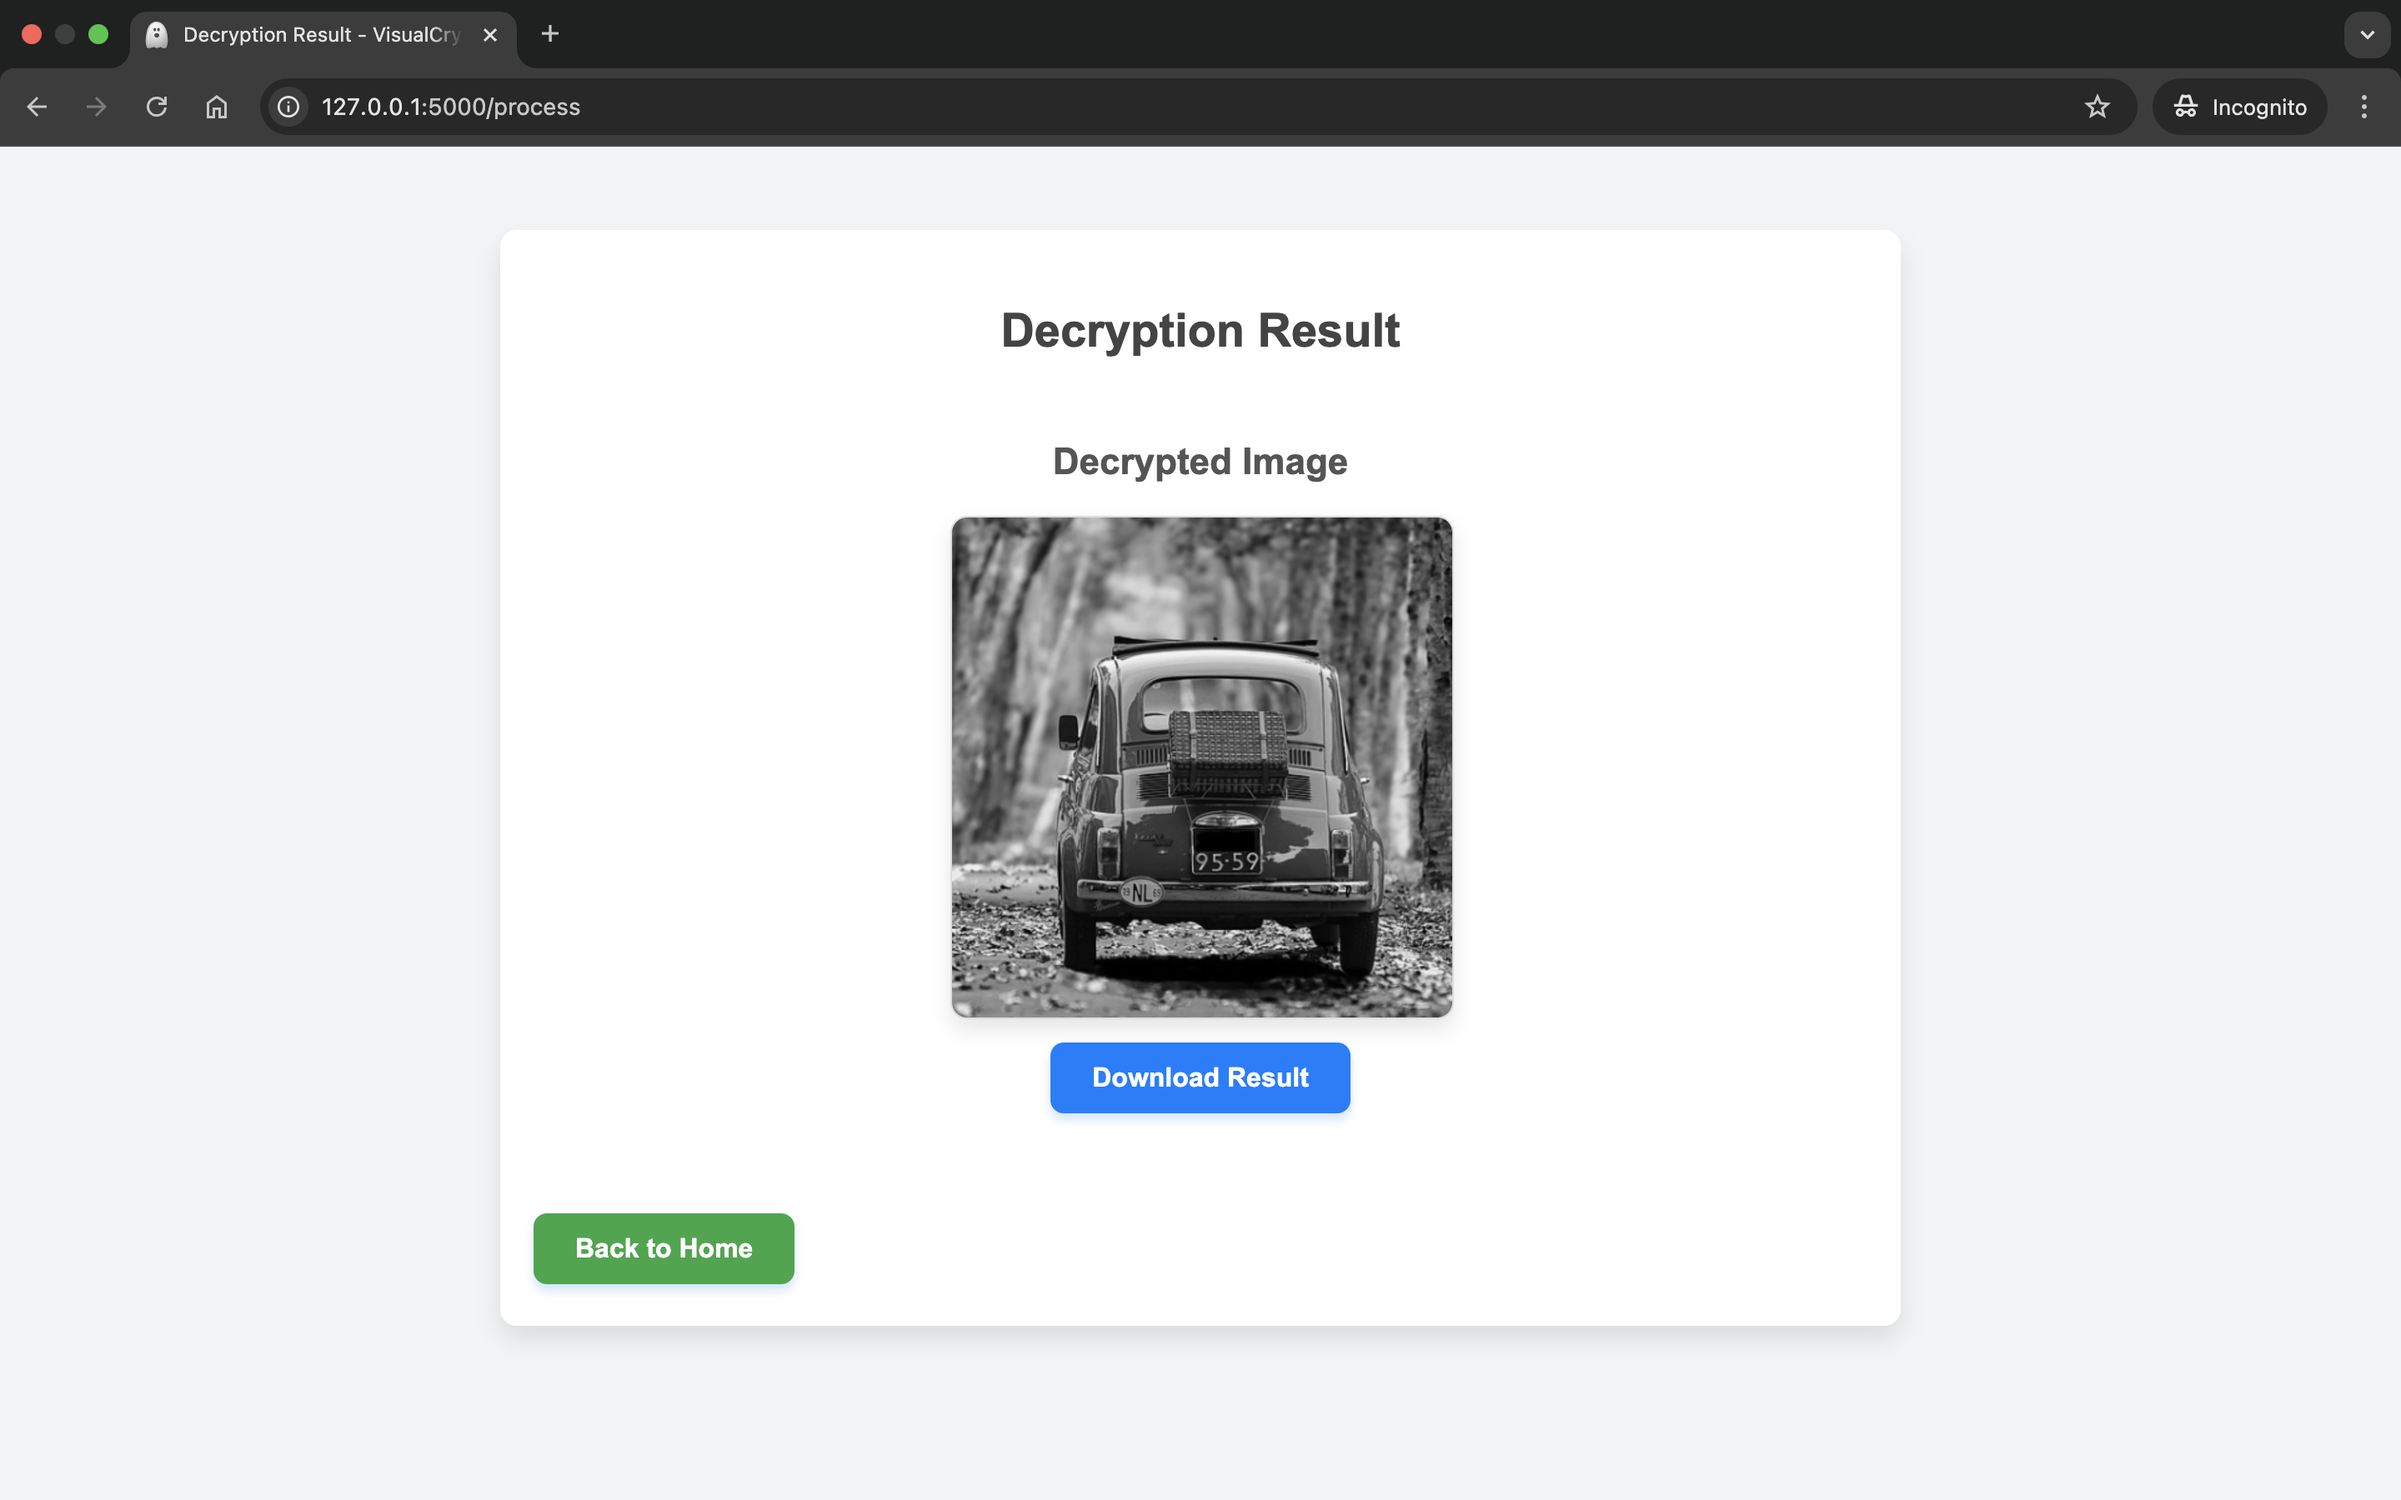
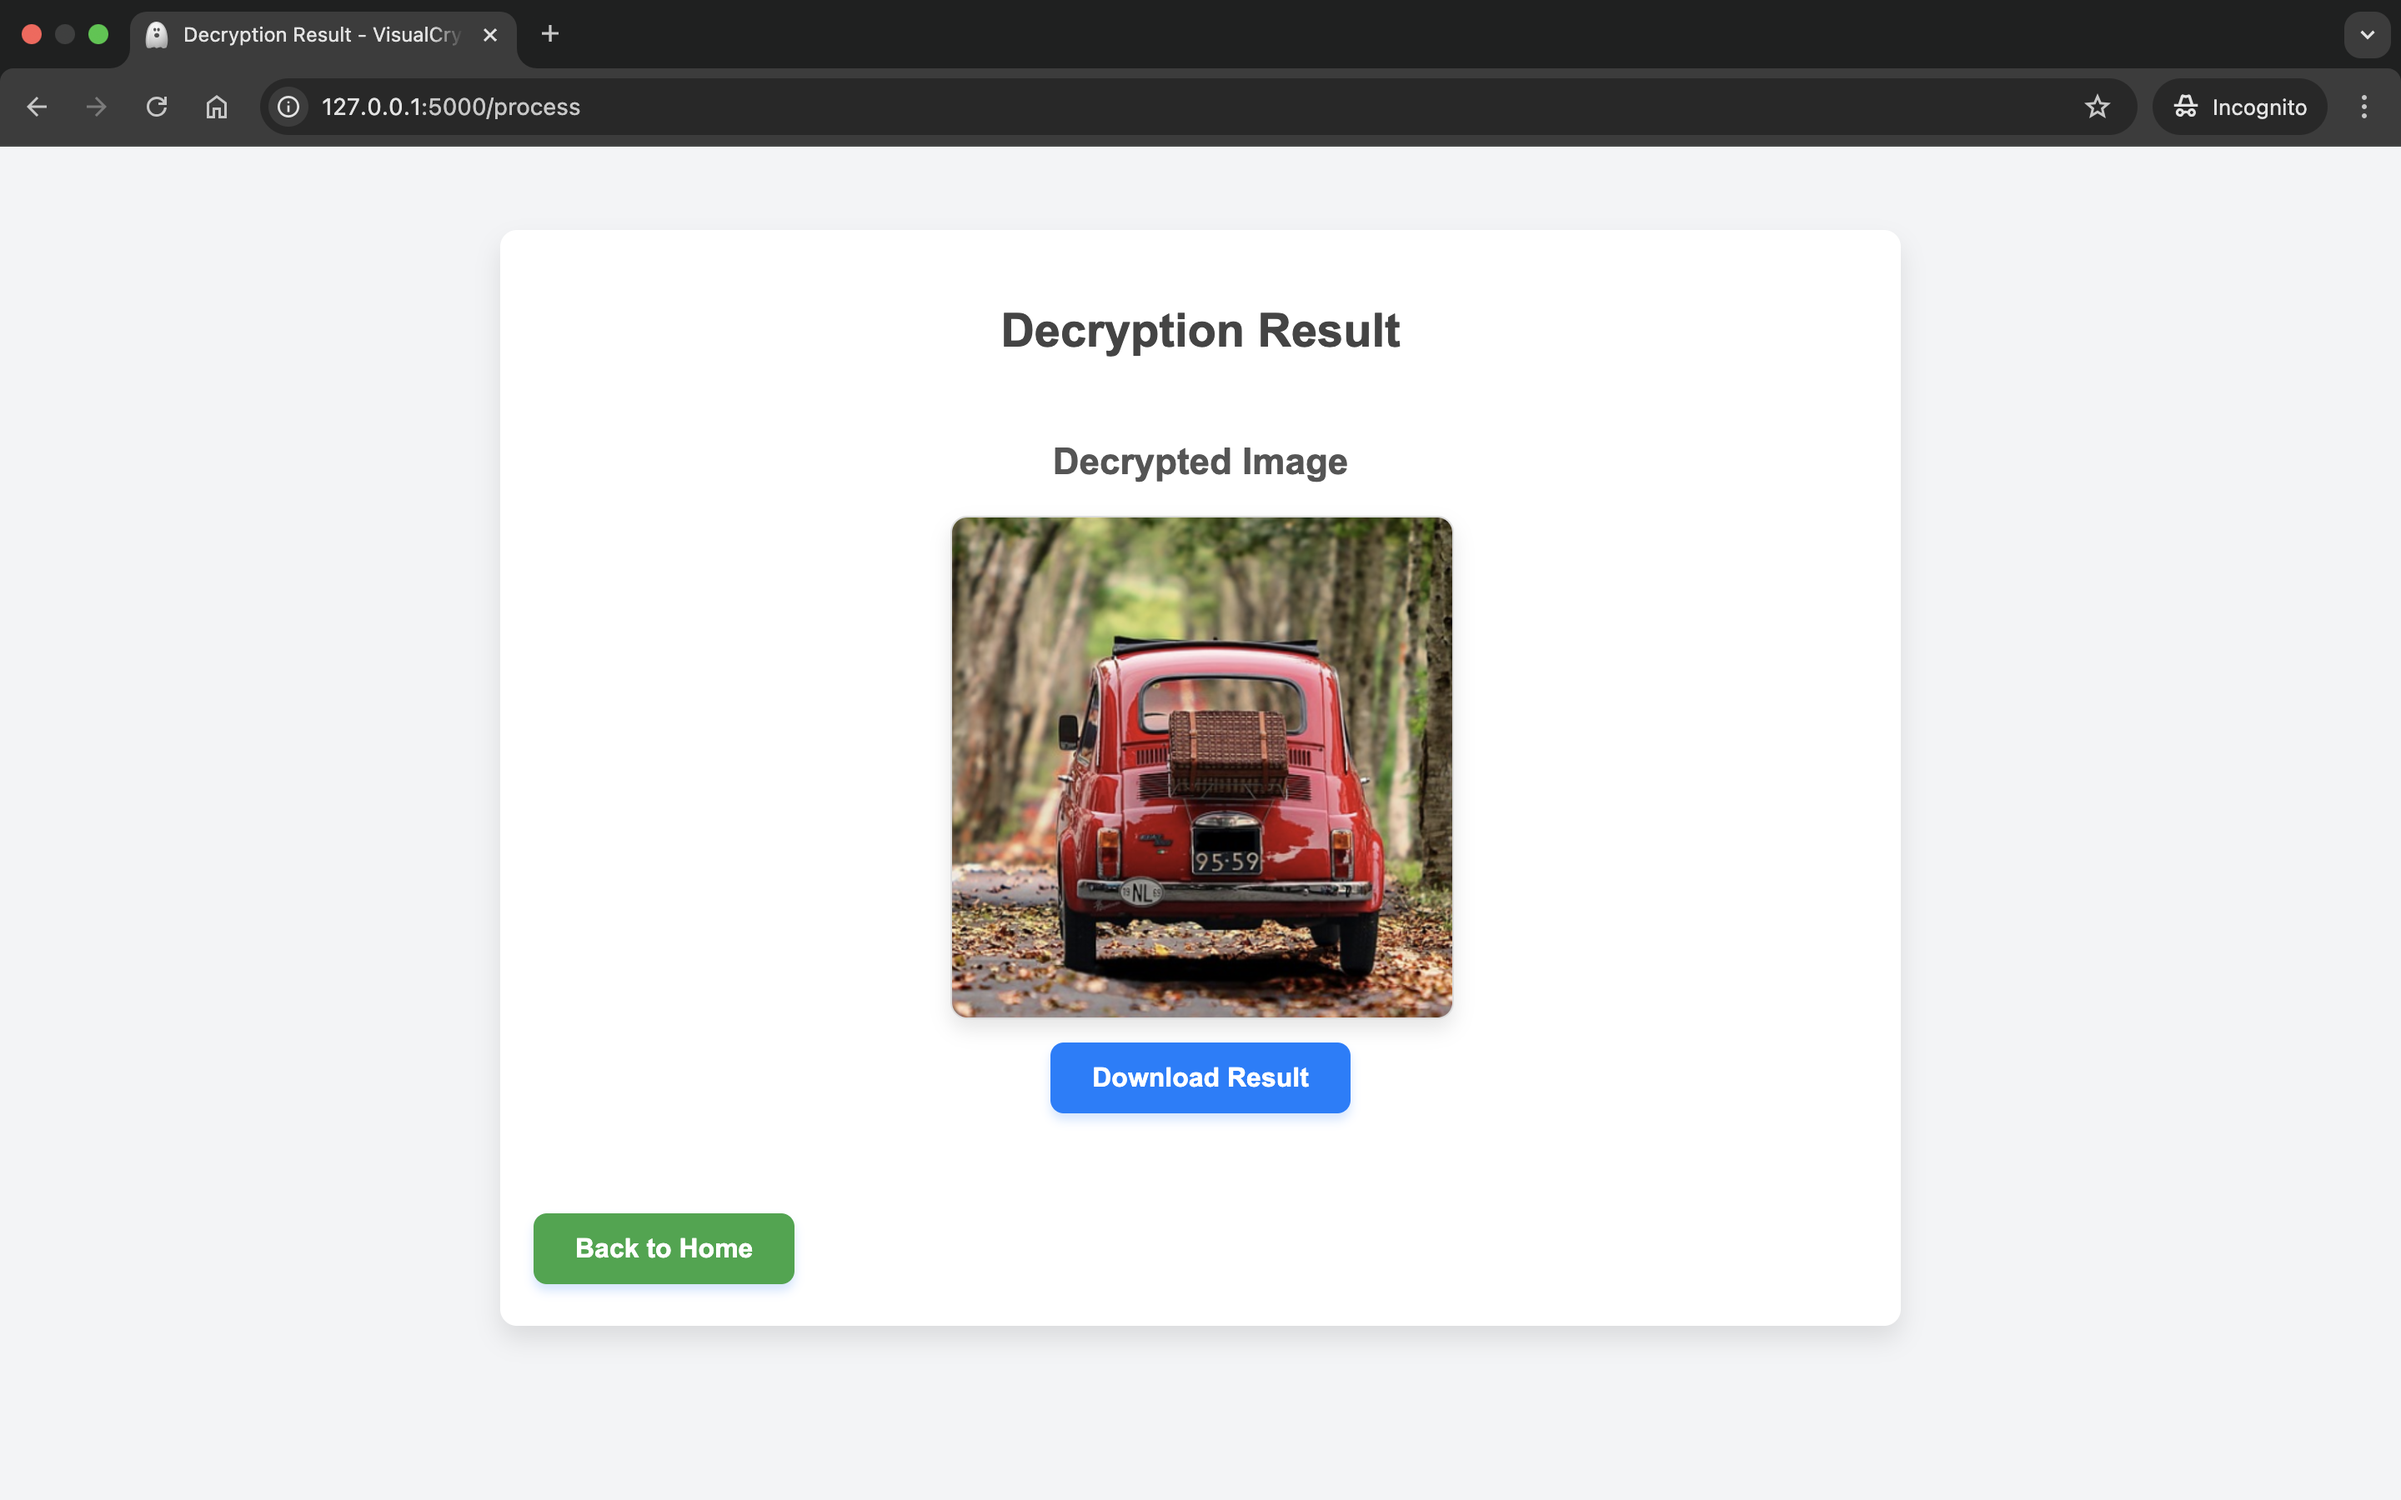
Add new color random grid scheme

Changed region(s): [[0.375, 0.3422, 0.625, 0.6844]]

diff --git a/scripts/random_grid/rg_color_additive_SS.py b/scripts/random_grid/rg_color_additive_SS.py
@@ -1,0 +1,106 @@
+import numpy as np
+from PIL import Image
+from scripts.random_grid.rg_grayscale_additive_SS import create_random_grid, create_difference_grid
+
+
+# Returns a dictionary containing function mappings and metadata for the algorithm (used by the web interface).
+def get_config():
+    return {
+        "name": "RG - Color (RGB) Additive Secret Sharing",
+        "description": get_description(),
+        "requirements": get_requirements(),
+        "encrypt": encrypt,
+        "decrypt": decrypt,
+        "extension": "png",
+        "image_type": "RGB"
+    }
+
+
+# Defines the expected inputs for encryption/decryption (number of images and additional parameters)
+def get_requirements():
+    return {
+        "encryption": {
+            "num_images": 1,
+            "parameters": {}  # No extra parameters needed
+        },
+        "decryption": {
+            "num_images": 2,
+            "parameters": {}  # No extra parameters needed
+        }
+    }
+
+
+# Returns a dictionary containing the description and reference links for the algorithm.
+def get_description():
+    return {
+        "text": "This (2,2) Visual Secret Sharing Scheme extends the general additive secret sharing scheme to handle RGB color images.",
+        "links": [
+            {"text": "Kafri & Keren",
+             "url": "https://doi.org/10.1364/ol.12.000377"}
+        ]
+    }
+
+
+# Function to encrypt an image by generating two shares using random grids and difference grids
+def encrypt(image):
+    """
+    Encrypts an image by generating two shares using random grids and difference grids.
+
+    Parameters:
+    image (PIL.Image.Image): The input image (PIL Image object) to be encrypted.
+
+    Returns:
+    tuple: A tuple containing two PIL.Image.Image objects (grid1_image and grid2_image),
+           representing the encrypted shares of the original image.
+    """
+    img_array = np.array(image).astype(int)  # Convert PIL Image to numpy array and convert to int type
+
+    # Create the first random grid for each channel and stack them
+    grid1 = np.stack([create_random_grid(img_array.shape[:2]) for _ in range(3)], axis=-1)
+    grid1_image = Image.fromarray(grid1)
+
+    # Create the second grid using modular subtraction
+    grid2 = create_difference_grid(img_array, grid1)
+    grid2_image = Image.fromarray(grid2.astype(np.uint8))
+
+    return grid1_image, grid2_image
+
+
+# Function to decrypt two images by overlaying the grids
+def decrypt(image1, image2):
+    """
+    Combines two grids by adding the second grid to the first.
+
+    Parameters:
+    image1 (PIL.Image.Image): The first image (PIL Image object), to be converted to numpy array and processed.
+    image2 (PIL.Image.Image): The second image (PIL Image object), to be converted to numpy array and processed.
+
+    Returns:
+    PIL.Image.Image: The resulting image (PIL Image object) after adding the two grids.
+    """
+    img1_array = np.array(image1.convert('RGB'))  # Convert PIL Image to numpy array (RGB)
+    img2_array = np.array(image2.convert('RGB'))  # Convert PIL Image to numpy array (RGB)
+
+    # Combine the grids using modular addition
+    decrypted = img1_array + img2_array
+    return Image.fromarray(decrypted.astype(np.uint8))  # Convert numpy array back to PIL Image
+
+
+if __name__ == '__main__':
+    image_path = '../images/test.png'
+    output_path = '../images/output/'
+
+    # Load and convert the input image to RGB
+    image = Image.open(image_path).convert('RGB')
+
+    # ENCRYPT: Generate shares
+    share1, share2 = encrypt(image)
+    share1.save(output_path + "RG1.png")
+    share2.save(output_path + "RG2.png")
+
+    # DECRYPT: Overlay the grids
+    img_share1 = Image.open(output_path + "RG1.png")  # PIL Image (RGB)
+    img_share2 = Image.open(output_path + "RG2.png")  # PIL Image (RGB)
+
+    out = decrypt(img_share1, img_share2)
+    out.save(output_path + "decrypted_image.png")

diff --git a/scripts/random_grid/rg_grayscale_additive_SS.py b/scripts/random_grid/rg_grayscale_additive_SS.py
@@ -58,7 +58,7 @@ def create_random_grid(size):
 # Function to create a difference grid by subtracting the image from the random grid
 def create_difference_grid(image, grid):
     """
-    Creates a difference grid by subtracting the pixel values of the input image from the random grid.
+    Creates a difference grid by subtracting the pixel values of the random grid image from the input image.
 
     Parameters:
     image (numpy.ndarray): The binary image array (as a numpy array) to subtract from the grid.
@@ -73,7 +73,7 @@ def create_difference_grid(image, grid):
 # Function to overlay two grids by performing subtraction
 def decrypt(image1, image2):
     """
-    Combines two grids by subtracting the second grid from the first.
+    Combines two grids by adding the second grid to the first.
 
     Parameters:
     image1 (PIL.Image.Image): The first image (PIL Image object), to be converted to numpy array and processed.

diff --git a/web_app/algo_interface.py b/web_app/algo_interface.py
@@ -1,12 +1,13 @@
 from scripts.visual_cryptography import vc_grayscale_halftone, vc_color_cmyk
-from scripts.random_grid import rg_grayscale_halftone, rg_grayscale_bitplane, rg_grayscale_additive_SS
+from scripts.random_grid import rg_grayscale_halftone, rg_grayscale_bitplane, rg_grayscale_additive_SS, rg_color_additive_SS
 
 # Using get_config() to retrieve the dictionaries with function mappings
 ALGORITHM_MODULES = {
-    "vc_grayscale_halftone": vc_grayscale_halftone.get_config(),
-    "vc_color_cmyk": vc_color_cmyk.get_config(),
-
+    "rg_color_additive_SS": rg_color_additive_SS.get_config(),
     "rg_grayscale_additive_SS": rg_grayscale_additive_SS.get_config(),
     "rg_grayscale_halftone": rg_grayscale_halftone.get_config(),
     "rg_grayscale_bitplane": rg_grayscale_bitplane.get_config(),
+
+    "vc_grayscale_halftone": vc_grayscale_halftone.get_config(),
+    "vc_color_cmyk": vc_color_cmyk.get_config(),
 }
